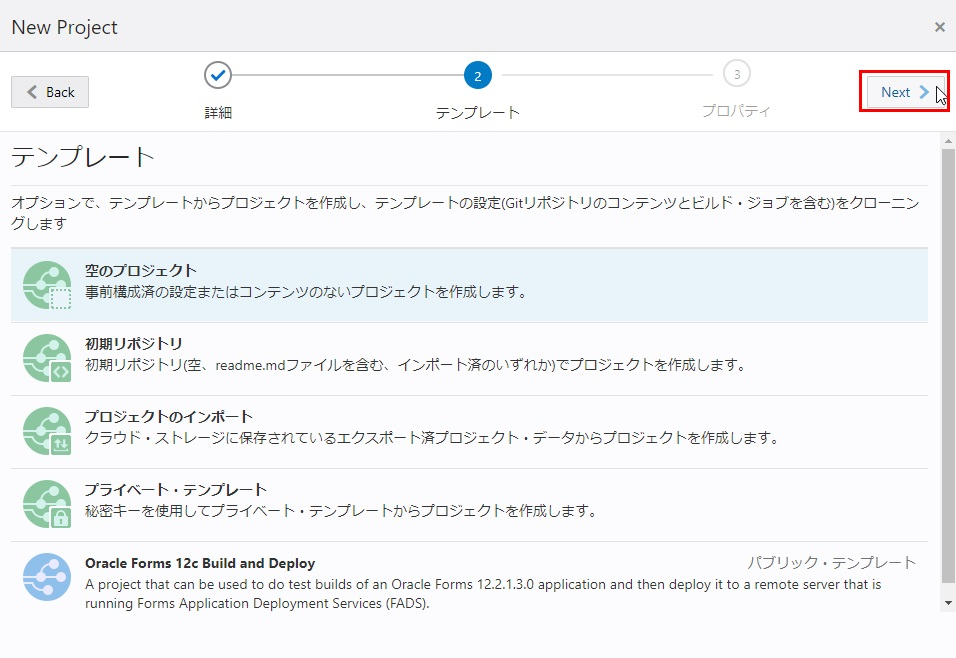
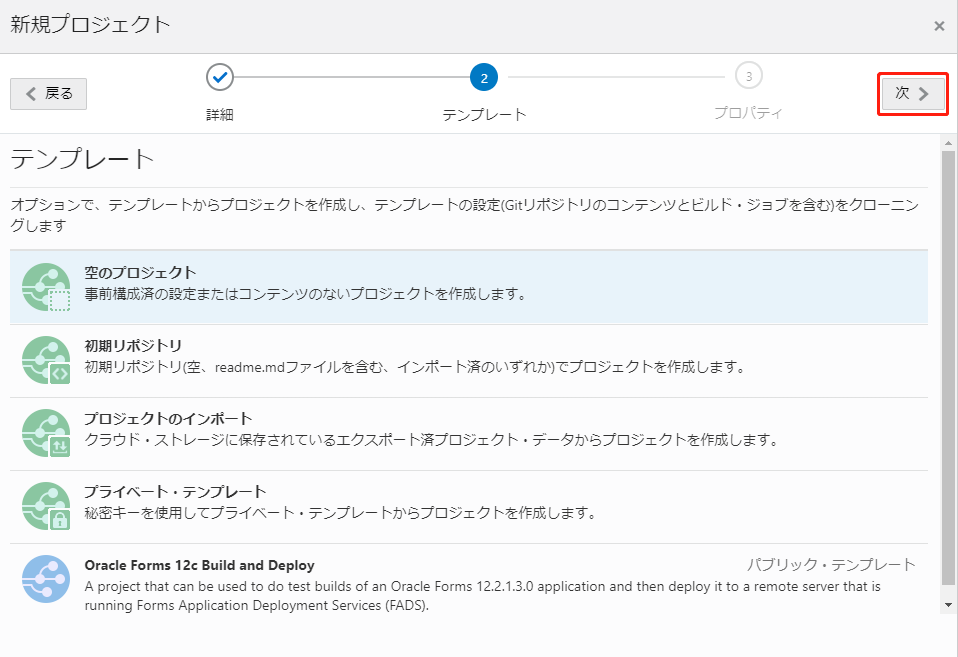
update

diff --git a/tutorial/WorkshopGuide300CreateProjectRepository.md b/tutorial/WorkshopGuide300CreateProjectRepository.md
@@ -9,24 +9,23 @@ DevCSでプロジェクトとリポジトリの作成
 
 ![](images/1070.jpg "")
 
-下記項目を入力して、「Next」をクリックします。
+下記項目を入力して、「次」をクリックします。
 
-+ 名前：任意（例えば、OKEATPWorkshop）
++ 名前：任意（例えば、Workshop）
 
-![](images/1080.jpg "")
+![](images/1080.jpg)
 
-デフォルトのままにして、「Next」をクリックします。
+デフォルトのままにして、「次」をクリックします。
 
 ![](images/1090.jpg "")
 
+デフォルトのままにして、「終了」をクリックします。
 
-デフォルトのままにして、「Finish」をクリックします。
-
-![](images/1100.jpg "")
+![](images/1100.jpg)
 
 すべてのモジュールがプロビジョンされるまでお待ちください。
 
-![](images/1110.jpg "")
+![](images/1110.jpg)
 
 プロジェクトの作成が完了すると、自動的にこちらの画面に移動されます。
 
@@ -34,11 +33,13 @@ DevCSでプロジェクトとリポジトリの作成
 
 ![](images/1120.jpg "")
 
+![](images/1115.jpg)
+
 下記項目を入力して、「作成」をクリックします。
 
-+ 名前：任意（例えば、oke_atp_workshop）
-+ 説明：任意（例えば、OKE ATP Workshop）
-+ 既存のリポジトリのインポート：https://github.com/oracle-japan/oke-atp-microservices-handson
++ 名前：任意（例えば、`oke-atp-helidon-handson`）
++ 説明：任意（例えば、`OKE ATP Helidon Handson`）
++ 既存のリポジトリのインポート：`https://github.com/oracle-japan/oke-atp-helidon-handson.git`
 
 ![](images/1130.jpg "")
 
